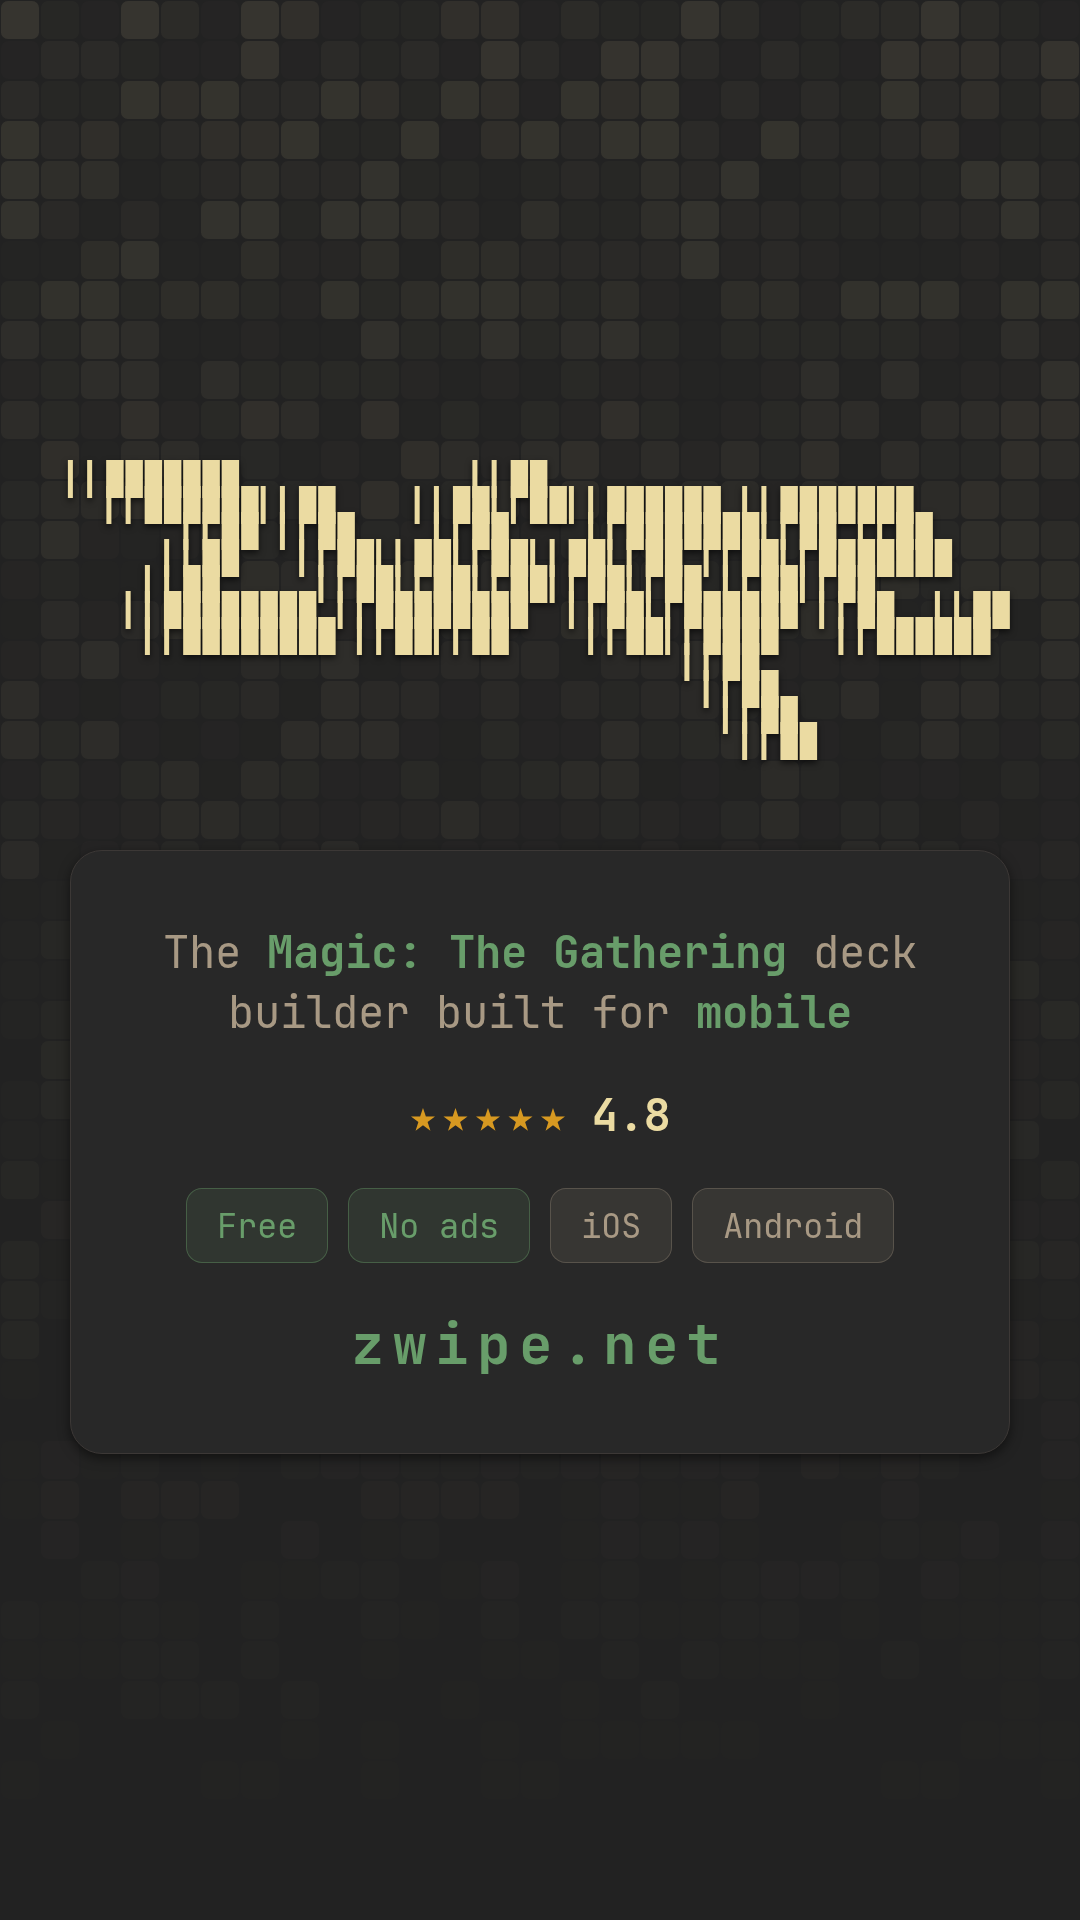
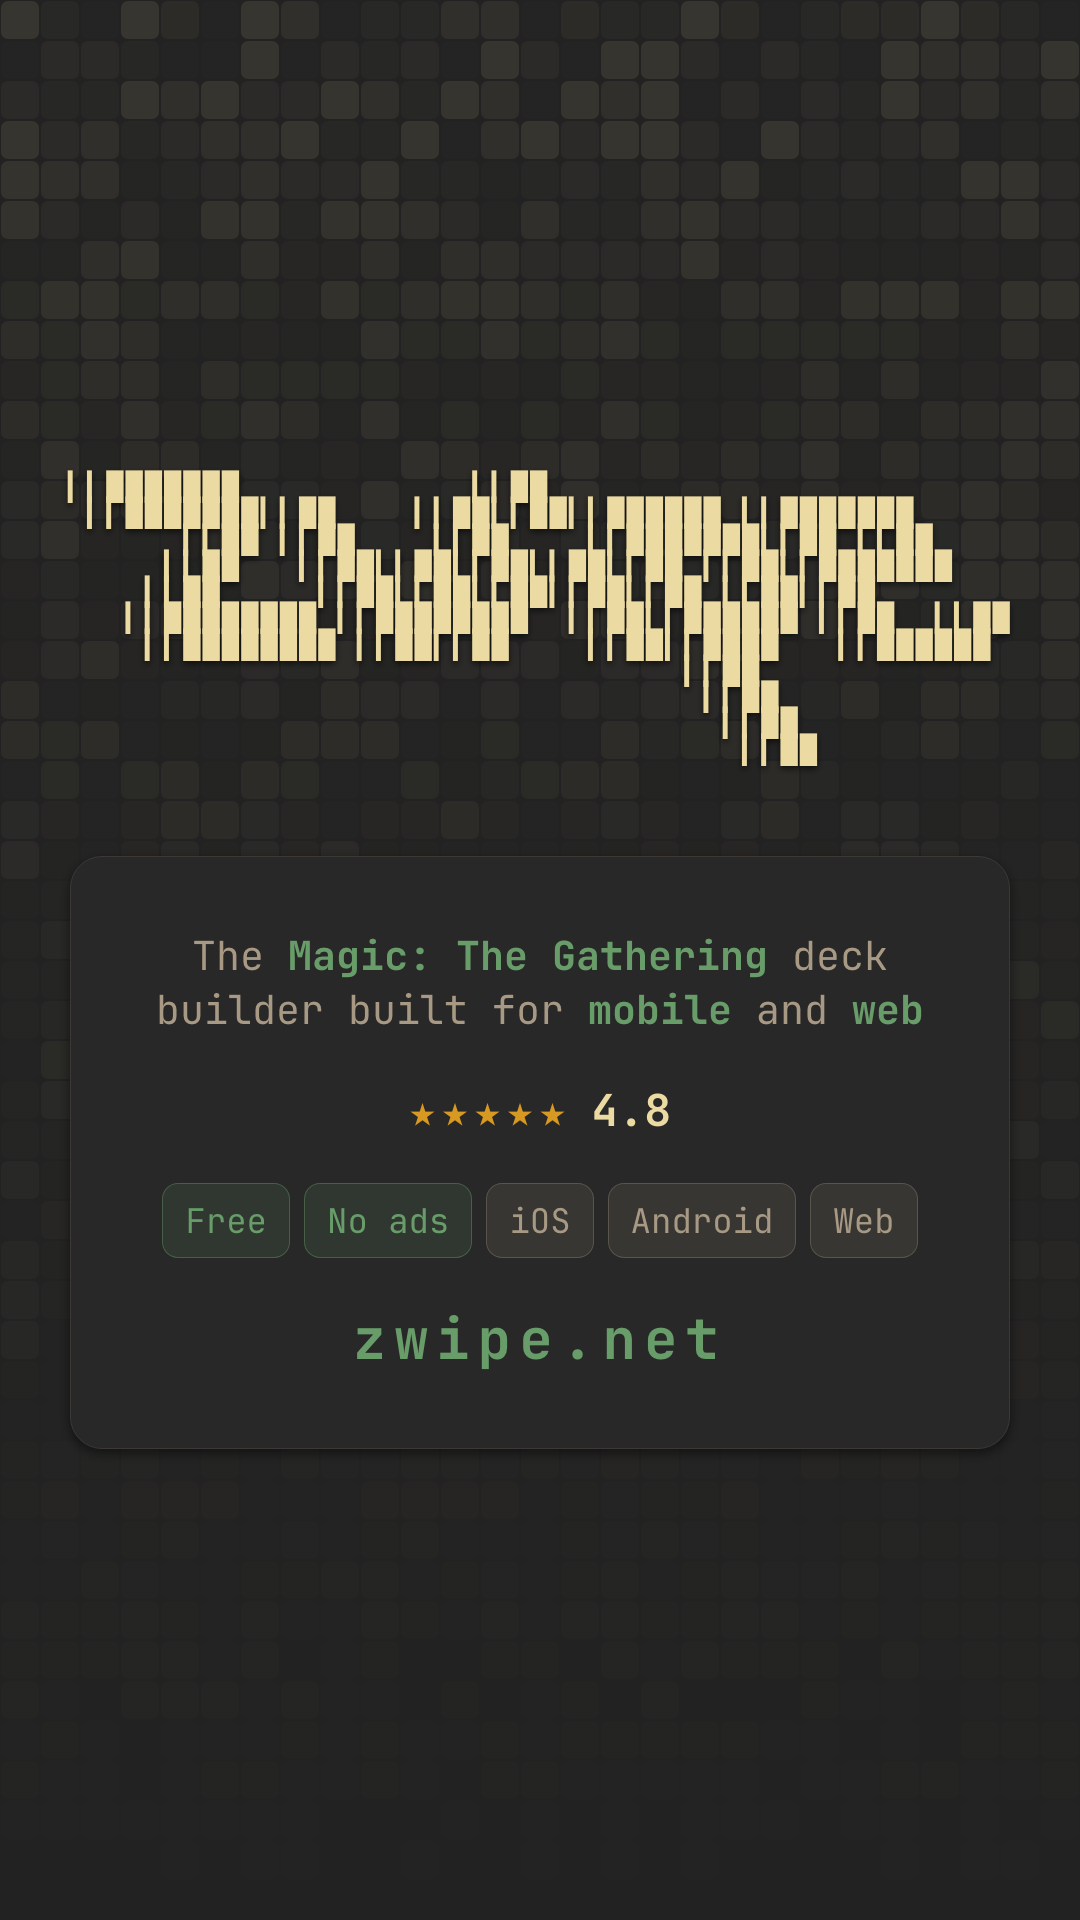
Video end card: built for mobile and web, with a Web chip after Android

diff --git a/context/marketing/video_end_card.html b/context/marketing/video_end_card.html
@@ -5,7 +5,7 @@
 <!-- Vertical (9:16, 1080x1920) end card for the swipe-demo video. Mirrors
      og_default.html's look: the gruvbox-dark grid cells on a darkened --bg-sink, the
      Zwipe wordmark sitting on the grid, then a hero-style bubble panel with the
-     value-prop tagline, a star rating, the Free/No ads/iOS/Android tag chips,
+     value-prop tagline, a star rating, the Free/No ads/iOS/Android/Web tag chips,
      and zwipe.net. Sizes are scaled up from og_default for the taller canvas.
      The block-glyph wordmark needs the app's self-hosted JetBrains Mono (the CDN
      fontsource subset drops U+2580-U+259F), so the font is loaded from
@@ -81,7 +81,7 @@ body {
   align-items: center;
   gap: 44px;
   width: 940px;
-  padding: 72px 72px;
+  padding: 72px 56px;
   background-color: var(--bg-primary);
   border: 1px solid var(--border-secondary);
   border-radius: 32px;
@@ -89,7 +89,8 @@ body {
 }
 
 .tagline {
-  font-size: 44px;
+  font-size: 40px;
+  text-wrap: balance;
   font-weight: 400;
   line-height: 1.35;
   color: var(--text-muted);
@@ -109,10 +110,11 @@ body {
 
 .tags {
   display: flex;
-  gap: 20px;
+  gap: 14px;
 }
 .tag {
-  padding: 14px 30px;
+  white-space: nowrap;
+  padding: 14px 22px;
   border-radius: 16px;
   font-size: 34px;
   border: 1px solid;
@@ -174,7 +176,7 @@ body {
                                    ▎▎▉▉</pre>
 
   <div class="hero">
-    <div class="tagline">The <span class="hl">Magic: The Gathering</span> deck builder built for <span class="hl">mobile</span></div>
+    <div class="tagline">The <span class="hl">Magic: The Gathering</span> deck builder built for <span class="hl">mobile</span> and <span class="hl">web</span></div>
     <div class="meta">
       <span class="stars">★★★★★</span>
       <span class="score">4.8</span>
@@ -184,6 +186,7 @@ body {
       <span class="tag tag-value">No ads</span>
       <span class="tag tag-plat">iOS</span>
       <span class="tag tag-plat">Android</span>
+      <span class="tag tag-plat">Web</span>
     </div>
     <div class="site">zwipe.net</div>
   </div>
